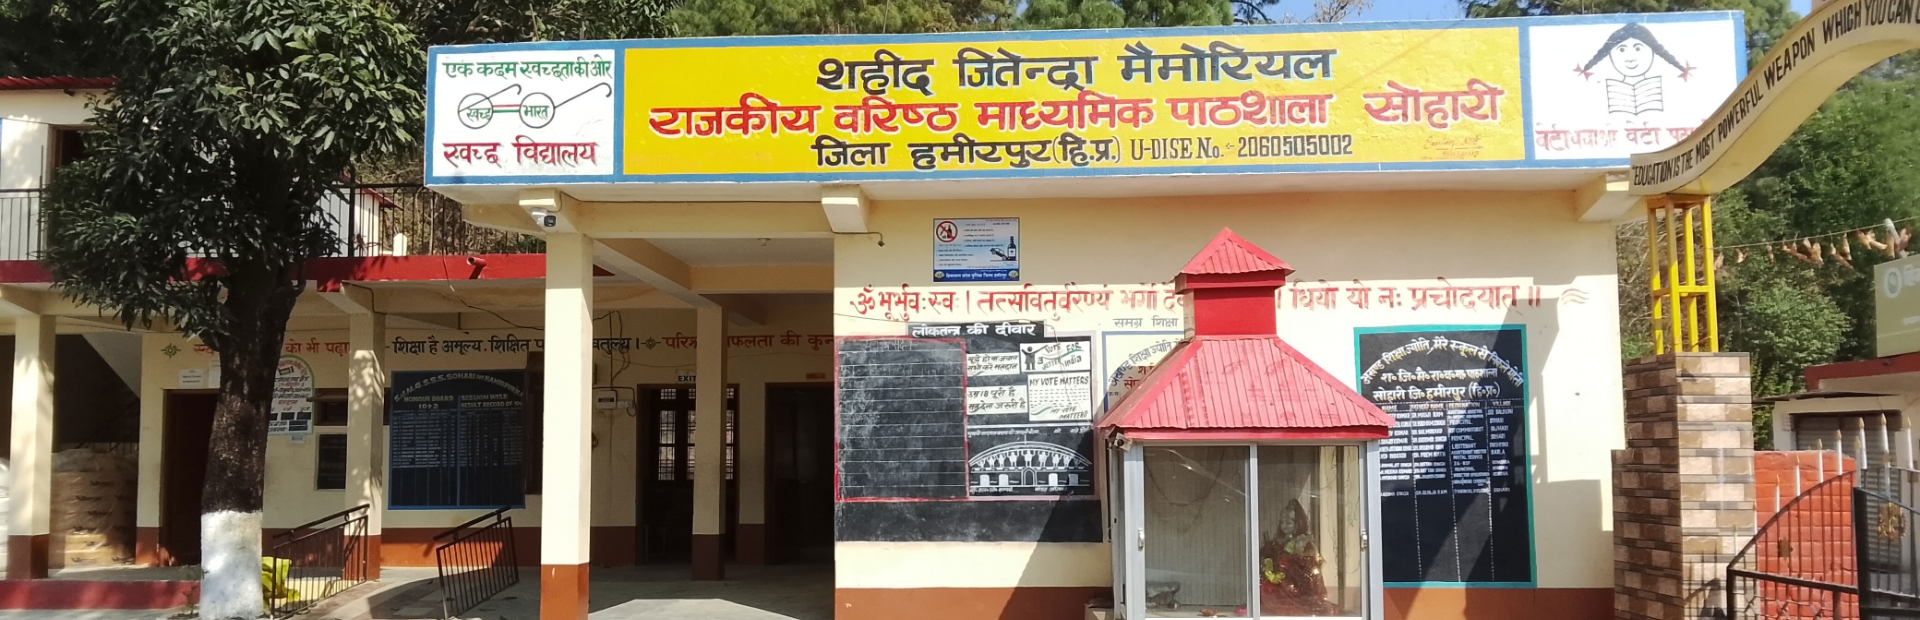
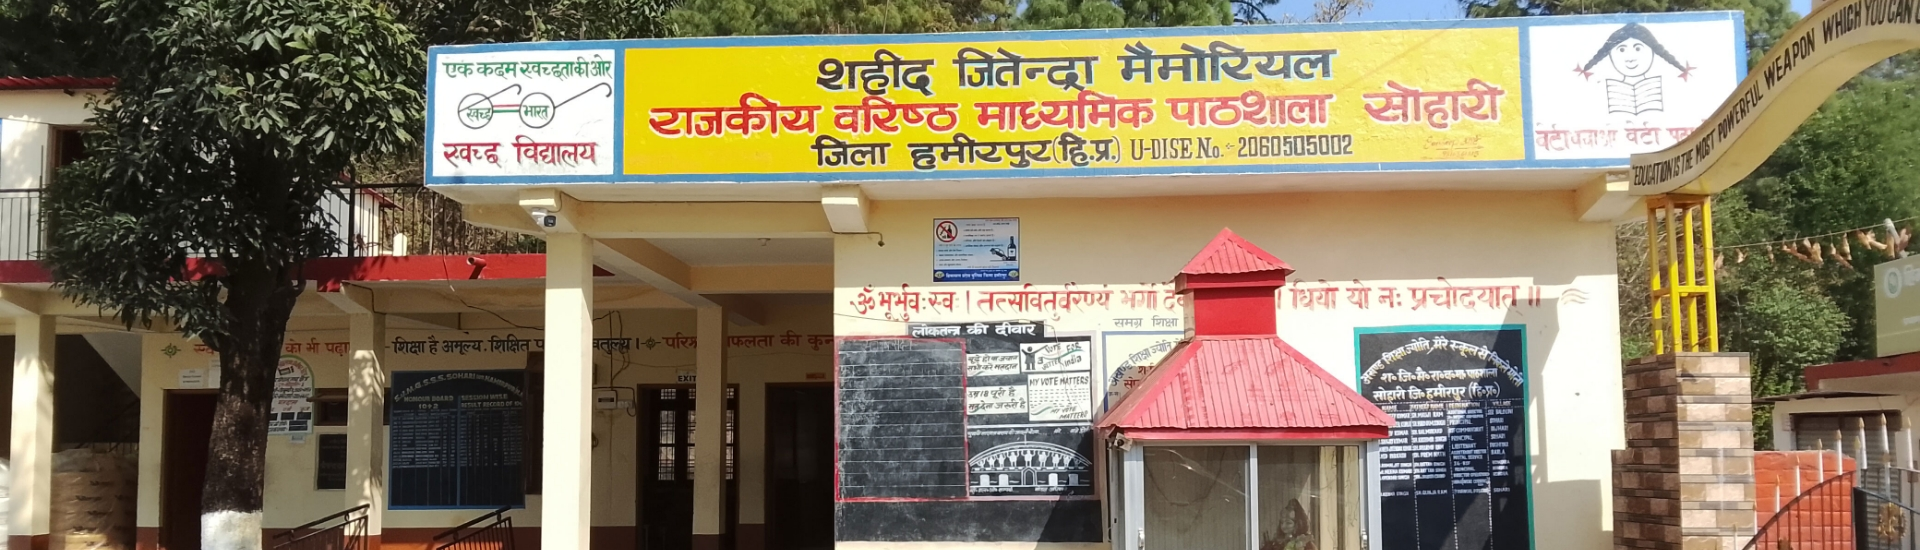
Add files via upload

diff --git a/assets/css/style.css b/assets/css/style.css
@@ -79,6 +79,7 @@ header{
     display:flex;
     align-items:center;
     color:white;
+    width: 330px;
 }
 
 .school-text{
@@ -118,37 +119,42 @@ header{
 }
 
 li.dropdown > a:after {
-       background-image: url(../images/next-arrow-w.svg);
+    background-image: url(../images/next-arrow-g.svg);
     content: "";
     width: 12px;
     height: 12px;
     position: absolute;
     background-position: center;
     right: -6px;
-    top: 5px;
+    top: 3px;
     transform: rotate(90deg);
     background-size: 7px;
     background-repeat: no-repeat;
 }
 
+li.dropdown > a:hover:after{
+    background-image: url(../images/next-arrow-w.svg);
+}
+
 .nav-menu a{
     text-decoration:none;
-    color:white;
+    color:#BDBDBD;
     font-size:18px;
+    border-bottom: 2px solid transparent;
+    padding-bottom: 4px;
 }
 
 .nav-menu a:hover,
 .nav-menu .active{
     color: #fff;
     border-bottom: 2px solid #fff;
-    padding-bottom: 5px;
 }
 
 /* Submenu hidden by default */
 .submenu {
     display: none;
     position: absolute;
-    top: 129%;
+    top: 155%;
     left: 0;
     background: #111;
     list-style: none;
@@ -161,6 +167,7 @@ li.dropdown > a:after {
 .submenu li a {
     padding: 9px 0;
     display: inline-block;
+        border-bottom: 2px solid transparent;
 }
 
 /* Hover pe show hoga */

diff --git a/academics.html b/academics.html
@@ -133,7 +133,7 @@
                     <h4>Documents and Information:</h4>
 
 
-                    <a href="assets/doc/Saras mendotry disclouser.pdf">Affiliation Documents</a>
+                    <a href="assets/doc/Saras mendotry disclouser.pdf" target="_blank">Affiliation Documents</a>
                     <a href="assets/doc/02 Approval NOC.pdf" target="_blank">NOC Documents</a>
                     <a href="assets/doc/06 Building safety certificate.pdf" target="_blank">Building Safety Documents</a>
                     <a href="assets/doc/Fire Safety Undertaking.pdf" target="_blank">Fire Safety Documents</a>

diff --git a/faculty.html b/faculty.html
@@ -131,7 +131,7 @@
                     <h4>Documents and Information:</h4>
 
 
-                    <a href="assets/doc/Saras mendotry disclouser.pdf">Affiliation Documents</a>
+                    <a href="assets/doc/Saras mendotry disclouser.pdf" target="_blank">Affiliation Documents</a>
                     <a href="assets/doc/02 Approval NOC.pdf" target="_blank">NOC Documents</a>
                     <a href="assets/doc/06 Building safety certificate.pdf" target="_blank">Building Safety Documents</a>
                     <a href="assets/doc/Fire Safety Undertaking.pdf" target="_blank">Fire Safety Documents</a>

diff --git a/index.html b/index.html
@@ -252,7 +252,7 @@
                     <h4>Documents and Information:</h4>
 
 
-                    <a href="assets/doc/Saras mendotry disclouser.pdf">Affiliation Documents</a>
+                    <a href="assets/doc/Saras mendotry disclouser.pdf" target="_blank">Affiliation Documents</a>
                     <a href="assets/doc/02 Approval NOC.pdf" target="_blank">NOC Documents</a>
                     <a href="assets/doc/06 Building safety certificate.pdf" target="_blank">Building Safety Documents</a>
                     <a href="assets/doc/Fire Safety Undertaking.pdf" target="_blank">Fire Safety Documents</a>
